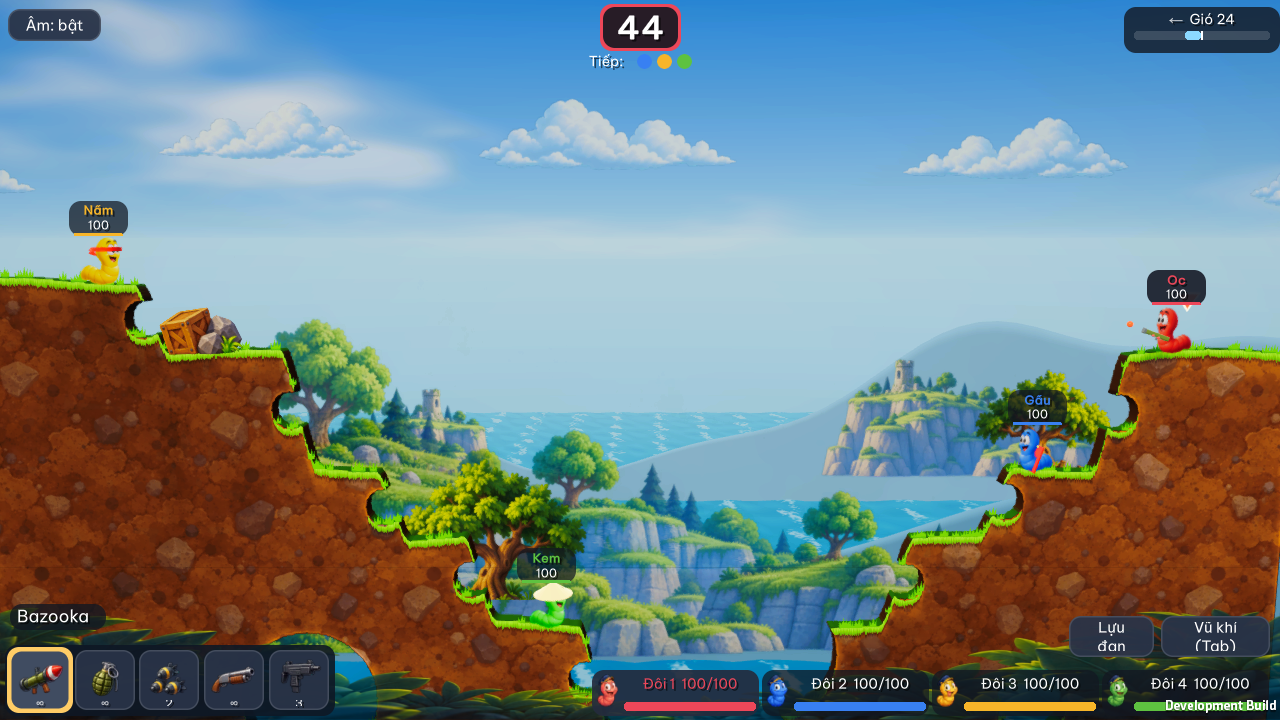
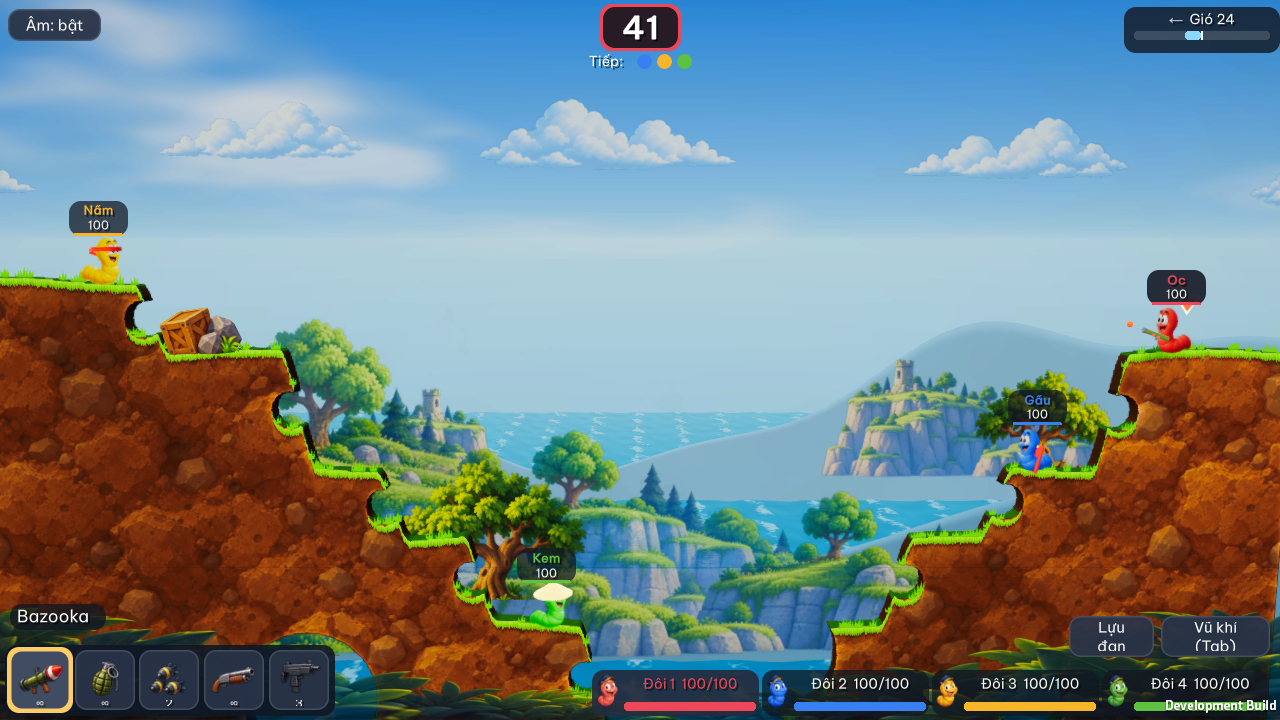
Add sculpted soil art and document graphics checkpoint

diff --git a/client/Assets/Game/Render/Theme.cs b/client/Assets/Game/Render/Theme.cs
@@ -69,8 +69,12 @@ namespace Worms.Game.Render
             m.SetColor("_DirtColor", t.Dirt);
             m.SetColor("_DeepColor", t.Deep);
             m.SetColor("_RockColor", t.Rock);
-            var paintedSoil = Resources.Load<Texture2D>("Terrain/painted-soil");
+            var sculptedSoil = Resources.Load<Texture2D>("Terrain/sculpted-soil");
+            var paintedSoil = sculptedSoil ?? Resources.Load<Texture2D>("Terrain/painted-soil");
             if (paintedSoil != null) m.SetTexture("_PaintedSoil", paintedSoil);
+            m.SetColor("_PaintTint", sculptedSoil != null
+                ? new Color(0.94f, 0.92f, 1.02f)
+                : new Color(0.72f, 0.78f, 1.15f));
             m.SetFloat("_PaintStrength", paintedSoil != null ? 0.65f : 0f);
             return m;
         }

diff --git a/README.md b/README.md
@@ -8,7 +8,7 @@ Kế hoạch đầy đủ: [docs/PLAN.md](docs/PLAN.md). Deploy: [docs/DEPLOY.md
 
 Game đang hướng tới phong cách hoạt hình sắc nét của [ảnh tham chiếu được chọn](docs/visuals/approved-cartoon-reference.png): địa hình có lớp đất và mép cỏ, biển và đảo nhiều lớp, sâu có biểu cảm, hiệu ứng đạn/nổ, HUD và menu cùng bảng màu. Bản chạy hiện tại chưa đạt mức chi tiết và bố cục của ảnh mẫu. Có hai cảnh Beach và Meadow, ba mức chất lượng Low/Medium/High và tùy chọn giảm chuyển động. Nguồn gốc các asset được ghi trong [assets-src/CREDITS.md](assets-src/CREDITS.md).
 
-Nhánh `feat/concept-character-rebuild` đã thêm hình sâu cho bốn đội, thung lũng ở giữa bản đồ, đạo cụ tránh điểm xuất hiện, lá tiền cảnh, hiệu ứng nổ vẽ tay và HUD desktop. Ảnh dưới chụp từ **development preview build Windows thật**, seed `123456`, chế độ bốn đội mỗi đội một sâu, bằng Unity 6000.3.25f1 trên desktop tách biệt để không lấy focus. Vách địa hình đã được làm thoải hơn trong dữ liệu va chạm thật; đất được phối nâu trầm hơn, HUD hiển thị sát thương đang chờ xử lý; tên lửa, khói, va chạm và hố nổ đã được chụp trong lượt bắn thực. Đây là tiến độ đang kiểm tra, chưa phải bản đồ họa được nghiệm thu: bậc đất còn đều, sâu nhỏ trong khung hình, trời chiếm nhiều diện tích và chất liệu cảnh vẫn khác concept; các trạng thái khác và hiệu năng trên thiết bị cần đối chiếu thêm.
+Bản đồ họa hiện tại đã thêm hình sâu cho bốn đội, thung lũng ở giữa bản đồ, đạo cụ tránh điểm xuất hiện, lá tiền cảnh, hiệu ứng nổ vẽ tay và HUD desktop. Ảnh dưới chụp từ **development preview build Windows thật**, seed `123456`, chế độ bốn đội mỗi đội một sâu, bằng Unity 6000.3.25f1 trên desktop tách biệt để không lấy focus. Vách địa hình đã được làm thoải hơn trong dữ liệu va chạm thật; đất dùng texture đá khối mới với tông nâu trầm hơn, HUD hiển thị sát thương đang chờ xử lý; tên lửa, khói, va chạm và hố nổ đã được chụp trong lượt bắn thực. Đây là tiến độ đang kiểm tra, chưa phải bản đồ họa được nghiệm thu: bậc đất còn đều, sâu nhỏ trong khung hình, trời chiếm nhiều diện tích và chất liệu cảnh vẫn khác concept; các trạng thái khác và hiệu năng trên thiết bị cần đối chiếu thêm.
 
 ![Cảnh chiến đấu preview bốn đội với HUD](docs/visuals/concept-rebuild-battle-preview.png)
 
@@ -47,4 +47,4 @@ Build Unity chạy trên GitHub Actions (GameCI) sau khi thêm secret `UNITY_LIC
 
 ## Asset đồ họa từ concept
 
-[Bộ 22 ảnh PNG gốc đã tạo](assets-src/generated/README.md) được lưu trong repo: `concept/` chứa ảnh chuẩn và bảng định hướng, `runtime/` chứa bản gốc của 15 ảnh mà Unity nạp từ `client/Assets/Resources/`, `drafts/` chứa các phương án chưa dùng. Ảnh chuẩn trong `assets-src/generated/concept/approved-battle.png` trùng byte với ảnh đối chiếu ở tài liệu. Các bản runtime cũng trùng byte với asset Unity tương ứng; ảnh concept nguyên cảnh và bản nháp không được nạp làm sprite trong game.
+[Bộ 23 ảnh PNG gốc đã tạo](assets-src/generated/README.md) được lưu trong repo: `concept/` chứa ảnh chuẩn và bảng định hướng, `runtime/` chứa bản gốc của 16 ảnh mà Unity nạp từ `client/Assets/Resources/`, `drafts/` chứa các phương án chưa dùng. Ảnh chuẩn trong `assets-src/generated/concept/approved-battle.png` trùng byte với ảnh đối chiếu ở tài liệu. Các bản runtime cũng trùng byte với asset Unity tương ứng; ảnh concept nguyên cảnh và bản nháp không được nạp làm sprite trong game.

diff --git a/assets-src/CREDITS.md b/assets-src/CREDITS.md
@@ -4,7 +4,7 @@ Repo này public, nên chỉ chứa asset CC0 hoặc tự tạo (docs/PLAN.md §
 
 Game không dùng asset bên ngoài có giấy phép hạn chế. Các hình sau do dự án tự tạo:
 
-Bản gốc của toàn bộ 22 ảnh tạo trong đợt concept Worms được lưu tại [generated/README.md](generated/README.md): 2 ảnh tham chiếu, 15 ảnh đang dùng trong Unity và 5 phương án chưa dùng. Các ảnh runtime trong thư mục đó trùng byte với PNG tương ứng dưới `client/Assets/Resources/`.
+Bản gốc của toàn bộ 23 ảnh tạo trong đợt concept Worms được lưu tại [generated/README.md](generated/README.md): 2 ảnh tham chiếu, 16 ảnh đang dùng trong Unity và 5 phương án chưa dùng. Các ảnh runtime trong thư mục đó trùng byte với PNG tương ứng dưới `client/Assets/Resources/`.
 
 | Loại | Cách tạo | File |
 |---|---|---|
@@ -24,6 +24,7 @@ Khi thêm một file asset, ghi một dòng vào bảng dưới đây (nguồn, 
 | `client/Assets/Resources/Backdrop/foreground-oak.png` | Tạo bằng OpenAI image generation từ ảnh concept do người dùng chọn, 2026-09-27; cây sồi và hàng rào, nền trong suốt | Worms project | Asset gốc do dự án tạo; không dùng hình bên thứ ba |
 | `client/Assets/Resources/Backdrop/crate-rocks.png` | Tạo bằng OpenAI image generation từ ảnh concept do người dùng chọn, 2026-09-27; thùng gỗ, đá và bụi cỏ, nền trong suốt | Worms project | Asset gốc do dự án tạo; không dùng hình bên thứ ba |
 | `client/Assets/Resources/Terrain/painted-soil.png` | Tạo bằng OpenAI image generation từ ảnh concept do người dùng chọn, 2026-09-27; texture đất vẽ tay | Worms project | Asset gốc do dự án tạo; không dùng hình bên thứ ba |
+| `client/Assets/Resources/Terrain/sculpted-soil.png` | Tạo bằng OpenAI image generation theo chất đất của ảnh concept do người dùng chọn, 2026-09-28; texture đất có khối đá lớn | Worms project | Asset gốc do dự án tạo; không dùng hình bên thứ ba |
 | `client/Assets/Resources/Characters/worm-red.png` | Tạo bằng OpenAI image generation từ ảnh concept do người dùng chọn, 2026-09-27; sâu đỏ nền trong suốt | Worms project | Asset gốc do dự án tạo; không dùng hình bên thứ ba |
 | `client/Assets/Resources/Characters/worm-blue.png` | Biến thể màu xanh từ sprite sâu đỏ bằng OpenAI image generation, 2026-09-27 | Worms project | Asset gốc do dự án tạo; không dùng hình bên thứ ba |
 | `client/Assets/Resources/Characters/worm-yellow.png` | Biến thể màu vàng từ sprite sâu đỏ bằng OpenAI image generation, 2026-09-27 | Worms project | Asset gốc do dự án tạo; không dùng hình bên thứ ba |

diff --git a/docs/GRAPHICS_HANDOFF.md b/docs/GRAPHICS_HANDOFF.md
@@ -112,6 +112,10 @@ Each step is a reviewable increment. Finish its verification before proceeding.
 
 ## Verification matrix
 
+### Current merge checkpoint (2026-09-28)
+
+The [four-team Windows preview](visuals/concept-rebuild-battle-preview.png) uses the newly generated `sculpted-soil.png` terrain texture. Its original generated PNG is preserved in `assets-src/generated/runtime/terrain/` and the exact runtime copy lives in `client/Assets/Resources/Terrain/`. A Unity 6000.3.25f1 Windows preview build completed with zero errors, and the player was captured on a separate Windows desktop without taking focus. The painted rock masses are clearer, but the cliff silhouette, character scale, composition and HUD still differ substantially from the approved concept. The flight, impact and aftermath images below predate this texture change; they document the actual projectile and crater behavior, not final visual fidelity. WebGL browser rendering and mobile performance remain unverified.
+
 ### Current game renders
 
 The following two images use the same offline sandbox seed (`123456`), 1280×720 camera render, Windows player, High tier, and a disposable Unity **6000.6.3f1** copy. The source project remains set to 6000.3.25f1. This comparison demonstrates the current direction but does not validate the required editor version, WebGL2, mobile performance, or the HUD.
